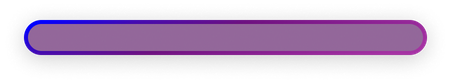
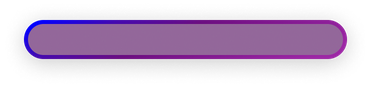
edit entry my books

Changed region(s): [[0.0296, 0.2169, 0.9488, 0.6988]]

diff --git a/interface/screens/MyBooksWindow.py b/interface/screens/MyBooksWindow.py
@@ -117,7 +117,7 @@ class Aplicattion():
 
         #input
         self.entry_image_search = PhotoImage(
-            file=relative_to_assets("entry_search.png"))
+            file=relative_to_assets("entry_search_2.png"))
         self.entry_bg_1 = self.canvas.create_image(
             1030.5,
             190.5,
